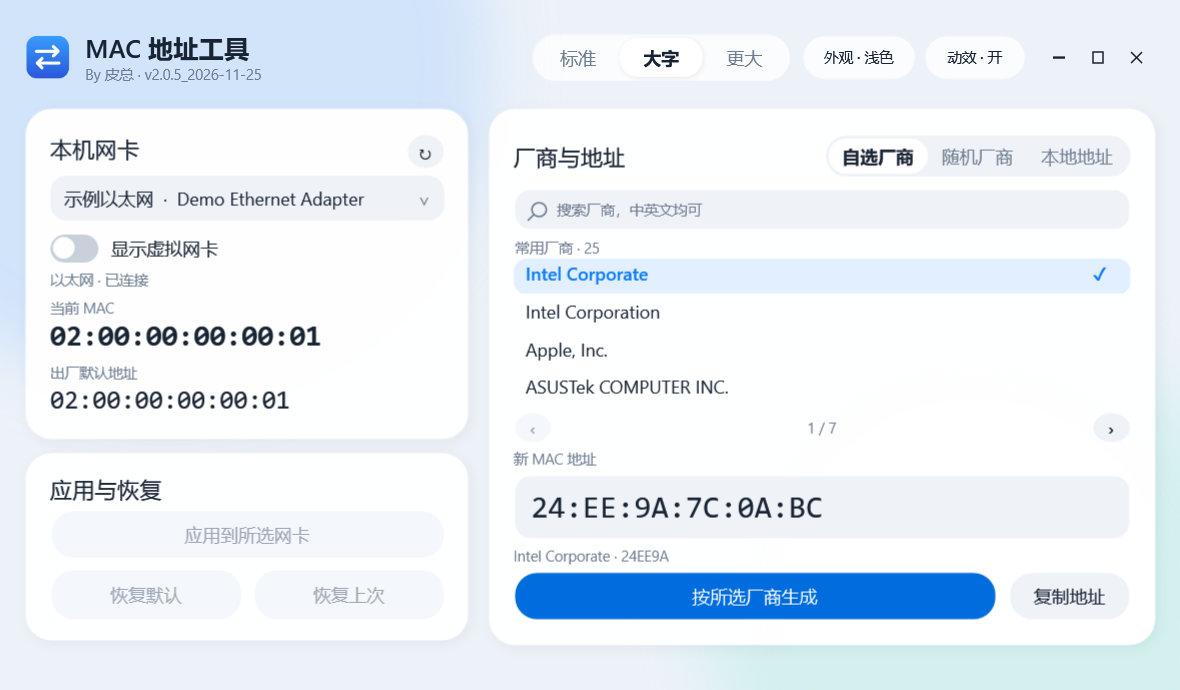
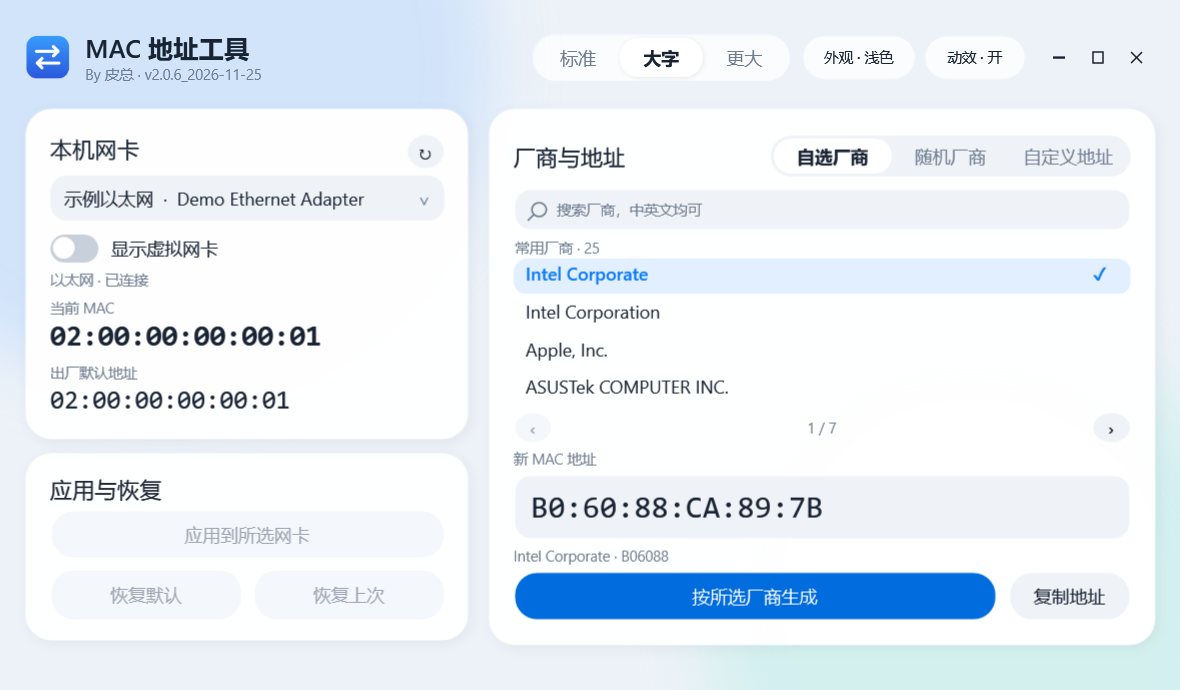
Generate a matching MAC immediately when a vendor is selected

Changed region(s): [[0.4271, 0.7, 0.7017, 0.7609], [0.6712, 0.213, 0.9153, 0.2435], [0.5186, 0.7913, 0.5797, 0.8217]]

diff --git a/src/MainWindow.xaml b/src/MainWindow.xaml
@@ -118,12 +118,12 @@
      </Grid>
      <Border Grid.Column="2" Style="{StaticResource Card}" VerticalAlignment="Top"><Grid><Grid.RowDefinitions><RowDefinition Height="46"/><RowDefinition Height="Auto"/><RowDefinition Height="27"/><RowDefinition Height="64"/><RowDefinition Height="32"/><RowDefinition Height="48"/></Grid.RowDefinitions>
       <Grid><TextBlock Text="厂商与地址" Style="{StaticResource Heading}" VerticalAlignment="Center"/>
-       <Border HorizontalAlignment="Right" Width="300" Height="40" CornerRadius="20" Background="{DynamicResource FieldBrush}" Padding="3">
-        <Grid><Border x:Name="VendorThumb" Background="{DynamicResource SelectionBrush}" HorizontalAlignment="Left" Width="98" CornerRadius="17"><Border.RenderTransform><TranslateTransform/></Border.RenderTransform></Border>
+       <Border HorizontalAlignment="Right" Width="354" Height="40" CornerRadius="20" Background="{DynamicResource FieldBrush}" Padding="3">
+        <Grid><Border x:Name="VendorThumb" Background="{DynamicResource SelectionBrush}" HorizontalAlignment="Left" Width="116" CornerRadius="17"><Border.RenderTransform><TranslateTransform/></Border.RenderTransform></Border>
          <UniformGrid Columns="3">
           <RadioButton x:Name="ChooseVendor" Content="自选厂商" GroupName="GenerationMode" IsChecked="True" Style="{StaticResource Segment}"/>
           <RadioButton x:Name="RandomVendor" Content="随机厂商" GroupName="GenerationMode" Style="{StaticResource Segment}"/>
-          <RadioButton x:Name="LocalMode" Content="本地地址" GroupName="GenerationMode" Style="{StaticResource Segment}"/>
+          <RadioButton x:Name="LocalMode" Content="自定义地址" GroupName="GenerationMode" Style="{StaticResource Segment}"/>
          </UniformGrid>
         </Grid>
        </Border>

diff --git a/src/MainWindow.cs b/src/MainWindow.cs
@@ -70,7 +70,8 @@ namespace MacTool {
    C<ComboBox>("Adapters").SelectionChanged+=(s,e)=>{if(!binding)ShowAdapter();};
    foreach(var name in new[]{"ChooseVendor","RandomVendor","LocalMode"}){
     C<RadioButton>(name).Checked+=async(s,e)=>{
-     AnimateSegment("VendorThumb",IsLocal?196:IsRandom?98:0);
+     AnimateSegment("VendorThumb",IsLocal?232:IsRandom?116:0);
+     if(!IsLocal)BindPage(true);
      RefreshControls();
      if(!IsLocal && (searching || C<TextBox>("Search").Text.Trim()!=appliedQuery)){
       searchTimer.Stop();await Search(true);
@@ -79,7 +80,14 @@ namespace MacTool {
    }
    C<TextBox>("Search").TextChanged+=(s,e)=>{searchVersion++;C<TextBlock>("SearchHint").Visibility=string.IsNullOrEmpty(C<TextBox>("Search").Text)?Visibility.Visible:Visibility.Collapsed;searchTimer.Stop();searchTimer.Start();RefreshControls();};
    searchTimer.Tick+=async(s,e)=>{searchTimer.Stop();await Search(false);};
-   C<ListBox>("Vendors").SelectionChanged+=(s,e)=>{if(binding)return;selectedVendor=C<ListBox>("Vendors").SelectedItem as string;if(database!=null&&!IsRandom)Generate();};
+   C<ListBox>("Vendors").SelectionChanged+=(s,e)=>{
+    if(binding||IsLocal)return;
+    var chosen=C<ListBox>("Vendors").SelectedItem as string;
+    if(chosen==null)return;
+    selectedVendor=chosen;
+    if(IsRandom)C<RadioButton>("ChooseVendor").IsChecked=true;
+    else Generate();
+   };
    C<Button>("Previous").Click+=(s,e)=>ChangePage(-1);C<Button>("Next").Click+=(s,e)=>ChangePage(1);
    C<Grid>("MainContent").SizeChanged+=(s,e)=>UpdatePageSize();
    C<Button>("Generate").Click+=async(s,e)=>{searchTimer.Stop();if(!IsLocal&&(C<TextBox>("Search").Text.Trim()!=appliedQuery||searching))await Search(true);else Generate();};
@@ -122,7 +130,16 @@ namespace MacTool {
   void ShowAdapter(){var a=SelectedAdapter;C<TextBlock>("PermanentLabel").Text=a!=null && a.Physical?"出厂默认地址":"永久 MAC 地址";C<TextBlock>("CurrentMac").Text=a==null?"—":Mac.Format(a.Current);C<TextBlock>("PermanentMac").Text=a==null?"—":Mac.Format(a.Permanent);C<TextBlock>("AdapterState").Text=a==null?(networkLoading?"正在读取网卡…":"未找到网卡"):(a.Wireless?"无线网卡":"以太网")+" · "+(a.Status=="Up"?"已连接":a.Disabled?"已禁用":"未连接");RefreshControls();}
   async Task Search(bool generateAfter){
    if(database==null)return;int version=++searchVersion;string query=C<TextBox>("Search").Text.Trim(),selected=selectedVendor;searching=true;RefreshControls();
-   try{var result=await Task.Run(()=>database.Query(query,selected));if(version!=searchVersion)return;searching=false;ApplyQuery(result);if(generateAfter)Generate();}
+   try{
+    var result=await Task.Run(()=>database.Query(query,selected));
+    if(version!=searchVersion)return;
+    searching=false;
+    ApplyQuery(result);
+    if(!IsLocal){
+     if(matches.Count==0)C<TextBox>("Address").Clear();
+     else if(generateAfter||IsRandom||selectedVendor!=selected||!Mac.Valid(C<TextBox>("Address").Text))Generate();
+    }
+   }
    catch(Exception ex){if(version==searchVersion){searching=false;Error("搜索失败",ex.Message);}}finally{RefreshControls();}
   }
   void ApplyQuery(VendorQuery query){matches=query.Matches;visible=query.Visible;appliedQuery=query.Text;MaximumVisibleCount=Math.Max(MaximumVisibleCount,visible.Count);page=0;BindPage(true);RefreshControls();}
@@ -139,8 +156,14 @@ namespace MacTool {
   void BindPage(bool preserve){
    int index=visible.FindIndex(s=>s.Equals(selectedVendor,StringComparison.OrdinalIgnoreCase));if(preserve&&index>=0)page=index/Math.Max(1,pageSize);
    int pages=Math.Max(1,(visible.Count+pageSize-1)/pageSize);page=Math.Max(0,Math.Min(page,pages-1));var rows=visible.Skip(page*pageSize).Take(pageSize).ToList();
-   binding=true;C<ListBox>("Vendors").ItemsSource=rows;C<ListBox>("Vendors").SelectedItem=rows.FirstOrDefault(s=>s.Equals(selectedVendor,StringComparison.OrdinalIgnoreCase))??rows.FirstOrDefault();binding=false;
-   selectedVendor=C<ListBox>("Vendors").SelectedItem as string;C<TextBlock>("PageInfo").Text=(visible.Count==0?0:page+1)+" / "+(visible.Count==0?0:pages);RefreshControls();
+   var list=C<ListBox>("Vendors");
+   binding=true;
+   try{
+    list.ItemsSource=rows;
+    list.SelectedItem=IsRandom?null:rows.FirstOrDefault(s=>s.Equals(selectedVendor,StringComparison.OrdinalIgnoreCase))??rows.FirstOrDefault();
+    if(!IsRandom)selectedVendor=list.SelectedItem as string;
+   }finally{binding=false;}
+   C<TextBlock>("PageInfo").Text=(visible.Count==0?0:page+1)+" / "+(visible.Count==0?0:pages);RefreshControls();
   }
   void ChangePage(int direction){page+=direction;BindPage(false);if(!IsRandom)Generate();}
   void Generate(){
@@ -150,13 +173,13 @@ namespace MacTool {
    var excluded=new HashSet<string>(used);foreach(var a in adapters)if(a.Current!=null)excluded.Add(a.Current);
    try{VendorBlock block;string value=generator.Generate(vendor,IsLocal,excluded,out block);used.Add(value);if(used.Count>10000)used.Clear();C<TextBox>("Address").Text=Mac.Format(value);Reveal(C<TextBox>("Address"));}catch(Exception ex){Error("未能生成地址",ex.Message);}
   }
-  void ShowMatch(){string text=C<TextBox>("Address").Text;var block=database==null?null:database.Lookup(text);C<TextBlock>("Match").Text=!Mac.Valid(text)?"请输入有效的单播 MAC 地址":Mac.Local(text)?"本地管理地址":block==null?"未找到对应厂商":block.Vendor+" · "+block.Prefix;RefreshControls();}
+  void ShowMatch(){string text=C<TextBox>("Address").Text;var block=database==null?null:database.Lookup(text);C<TextBlock>("Match").Text=!Mac.Valid(text)?"请输入有效的单播 MAC 地址":Mac.Local(text)?(IsLocal?"可直接编辑上方地址":"本地管理地址"):block==null?"未找到对应厂商":block.Vendor+" · "+block.Prefix;RefreshControls();}
   void RefreshControls(){
    bool ready=database!=null&&!busy,local=IsLocal;
    C<TextBox>("Search").IsEnabled=ready&&!local;C<ListBox>("Vendors").IsEnabled=ready&&!local&&!searching;
    C<StackPanel>("VendorTools").Visibility=local?Visibility.Collapsed:Visibility.Visible;
    foreach(var name in new[]{"ChooseVendor","RandomVendor","LocalMode"})C<RadioButton>(name).IsEnabled=ready;
-   C<Button>("Generate").Content=local?"生成本地地址":IsRandom?"随机厂商生成":"按所选厂商生成";
+   C<Button>("Generate").Content=local?"随机生成地址":IsRandom?"随机厂商生成":"按所选厂商生成";
    C<Button>("Generate").IsEnabled=ready&&(local||(!searching&&matches.Count>0));
    C<Button>("Copy").IsEnabled=Mac.Valid(C<TextBox>("Address").Text);
    var a=SelectedAdapter;bool change=!demo&&!busy&&!networkLoading&&a!=null&&a.RegistryPath!=null;
@@ -238,6 +261,16 @@ namespace MacTool {
    foreach(string query in new[]{"英特尔","苹果","a","华为",""}){C<TextBox>("Search").Text=query;searchTimer.Stop();await Search(true);if(visible.Count>100)throw new Exception("Visible vendor limit exceeded.");}
    int old=page;if(visible.Count>pageSize){ChangePage(1);if(page==old)throw new Exception("Paging failed.");ChangePage(-1);}
    for(int i=0;i<3;i++){C<RadioButton>("Size"+i).IsChecked=true;await Task.Delay(30);}SetFontSize(1);
+   var vendorList=C<ListBox>("Vendors");
+   C<RadioButton>("RandomVendor").IsChecked=true;
+   ChangePage(1);
+   if(vendorList.SelectedItem!=null)throw new Exception("Random mode shows a manual selection.");
+   var picked=(string)vendorList.Items[vendorList.Items.Count-1];
+   var beforePick=C<TextBox>("Address").Text;
+   vendorList.SelectedItem=picked;
+   var pickedBlock=database.Lookup(C<TextBox>("Address").Text);
+   if(IsRandom||C<TextBox>("Address").Text==beforePick||pickedBlock==null||pickedBlock.Vendor!=picked)
+    throw new Exception("Selecting a vendor in random mode must immediately generate its MAC.");
    var themeButton=C<Button>("Theme");
    foreach(bool motionOff in new[]{false,true}){
     reducedMotion=motionOff;
@@ -275,7 +308,7 @@ namespace MacTool {
   void ValidateViewport(){var viewport=C<Grid>("Viewport");foreach(string name in new[]{"Adapters","Search","Vendors","Generate","Copy","Apply","Reset","Undo","Size0","Size1","Size2","ChooseVendor","RandomVendor","Address","Theme","Motion","Minimize","Maximize","Close"}){var element=C<FrameworkElement>(name);var bounds=element.TransformToAncestor(viewport).TransformBounds(new Rect(new Point(),element.RenderSize));if(bounds.Left< -1||bounds.Top< -1||bounds.Right>viewport.ActualWidth+1||bounds.Bottom>viewport.ActualHeight+1)throw new Exception("Control outside the single-page viewport: "+name);}}
   int ValidateText(){
    int checks=0;
-   foreach(string name in new[]{"Size0","Size1","Size2","ChooseVendor","RandomVendor","Generate","Copy","Apply","Reset","Undo","Theme","Motion"}){
+   foreach(string name in new[]{"Size0","Size1","Size2","ChooseVendor","RandomVendor","LocalMode","Generate","Copy","Apply","Reset","Undo","Theme","Motion"}){
     var control=C<Control>(name);foreach(var text in VisualChildren<TextBlock>(control)){
      var measure=new TextBlock{Text=text.Text,FontFamily=text.FontFamily,FontSize=text.FontSize,FontWeight=text.FontWeight,FontStyle=text.FontStyle,FontStretch=text.FontStretch};measure.Measure(new Size(double.PositiveInfinity,double.PositiveInfinity));
      if(text.ActualHeight+.75<measure.DesiredSize.Height||text.ActualWidth+.75<measure.DesiredSize.Width)throw new Exception("Button text clipped: "+name);checks++;

diff --git a/src/App.cs b/src/App.cs
@@ -14,9 +14,9 @@ using System.Windows.Threading;
 [assembly:AssemblyDescription("Offline Windows MAC utility with a Liquid Glass inspired interface")]
 [assembly:AssemblyCompany("By 皮总")]
 [assembly:AssemblyCopyright("Copyright 2026 MAC Address Tool contributors")]
-[assembly:AssemblyVersion("2.0.5.0")]
-[assembly:AssemblyFileVersion("2.0.5.0")]
-[assembly:AssemblyInformationalVersion("2.0.5_2026-11-25")]
+[assembly:AssemblyVersion("2.0.6.0")]
+[assembly:AssemblyFileVersion("2.0.6.0")]
+[assembly:AssemblyInformationalVersion("2.0.6_2026-11-25")]
 namespace MacTool {
  public static class App {
   [STAThread] public static int Main(string[] args){

diff --git a/README.md b/README.md
@@ -19,7 +19,7 @@ Windows 网卡 MAC 地址生成与管理工具。单个 EXE，离线运行，无
 ## 功能
 
 - IEEE MA-L、MA-M、MA-S 厂商前缀；内置 54,278 条登记记录。
-- 自选厂商、随机厂商、本地管理地址三种生成方式。
+- 自选厂商、随机厂商、自定义地址三种模式。点选厂商后立即生成对应的 MAC。在自定义地址模式可手动输入或随机生成。
 - 启动只显示常用厂商，搜索结果限制数量并分页，完整数据库在后台加载。
 - 应用后读取实际 MAC；驱动未采用新地址时尝试恢复原设置。
 - 恢复默认地址，或恢复上次操作前的配置。
@@ -31,7 +31,7 @@ Windows 网卡 MAC 地址生成与管理工具。单个 EXE，离线运行，无
 
 支持 Windows 10 / 11 x64，需要 .NET Framework 4.8 或兼容的更高版本。并非所有网卡驱动都支持覆盖 MAC，尤其不能假定 Intel 无线驱动支持。Windows 的无线随机硬件地址设置也可能影响实际地址。
 
-厂商模式保留 IEEE 登记前缀；本地管理地址模式不保留厂商前缀。匹配前缀不能证明硬件型号，也不保证生成地址在所在网络中绝不重复。工具不修改网卡固件。
+厂商模式保留 IEEE 登记前缀；自定义地址模式下随机生成的是本地管理地址。匹配前缀不能证明硬件型号，也不保证生成地址在所在网络中绝不重复。工具不修改网卡固件。
 
 ## 隐私
 

diff --git a/docs/RELEASE_NOTES.md b/docs/RELEASE_NOTES.md
@@ -1,6 +1,6 @@
-# v2.0.5_2026-11-25
+# v2.0.6_2026-11-25
 
-实体网卡的永久地址标为“出厂默认地址”。网卡状态与两个 MAC 地址连续排列，厂商翻页按钮紧随实际条目。三个生成模式可直接切换，选择本地地址时收起厂商列表，切回自选厂商即可搜索并选择。
+点选具体厂商会立即切换到自选模式，并用所选厂商的登记前缀生成 MAC。随机模式浏览列表时不再勾选无关厂商。“本地地址”更名为“自定义地址”，支持手动编辑和随机生成。
 
 如果启动时提示缺少 .NET Framework 4.8，请安装微软官方运行时，再打开 `MacAddressTool.exe`。[在线安装](https://dotnet.microsoft.com/zh-cn/download/dotnet-framework/thank-you/net48-web-installer) · [离线安装包](https://dotnet.microsoft.com/zh-cn/download/dotnet-framework/thank-you/net48-offline-installer)
 
